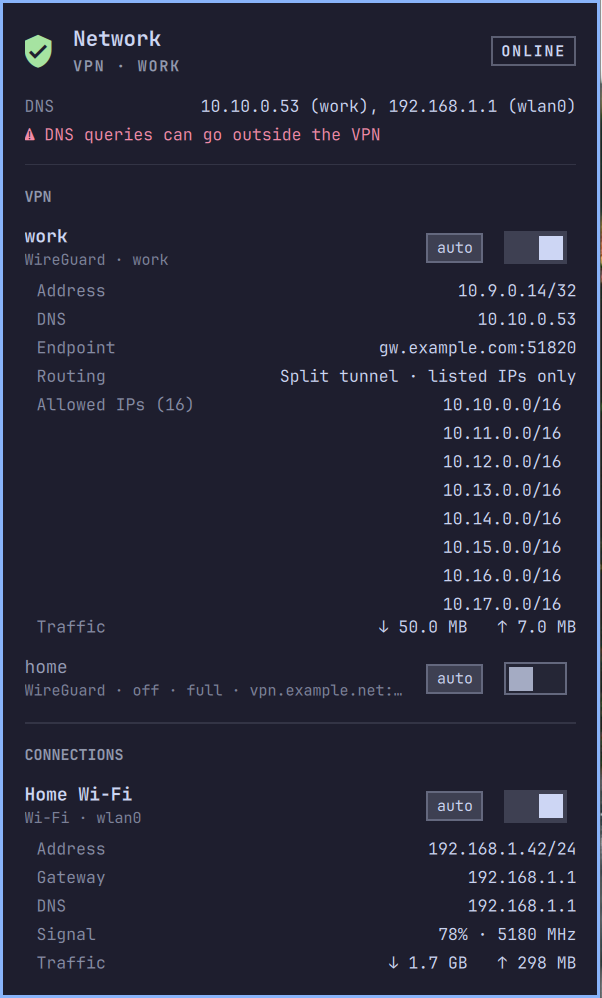
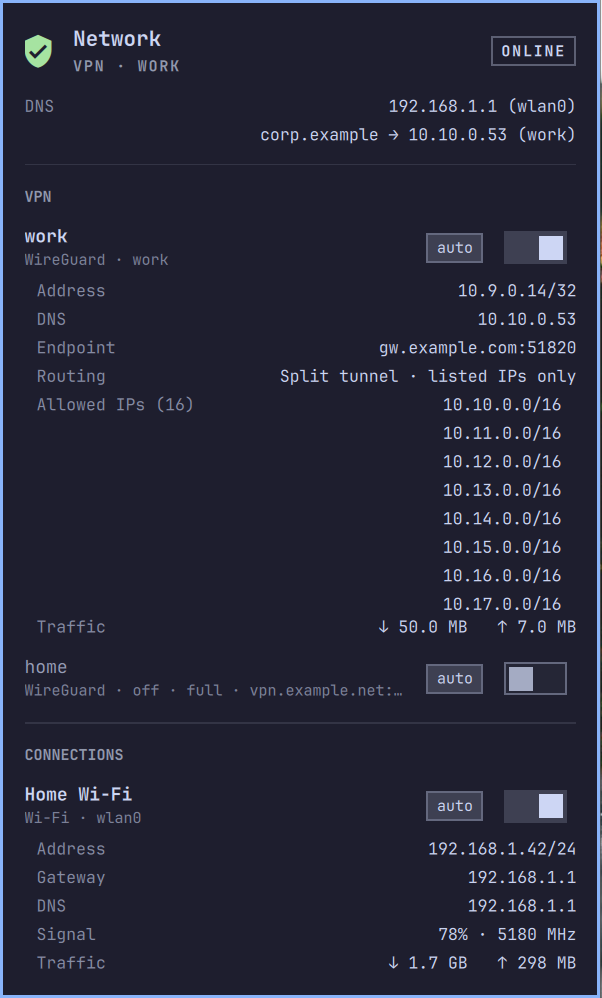
Fix split-DNS listing and split-tunnel leak false positive
Based on 0001-fix-split-dns-and-leak-check.patch, with changes:

- Move the resolvectl parser into resolved.awk. Keep routing-only
  (~domain) entries so routing-only split DNS shows up, but drop ~.,
  reverse-lookup zones (*.arpa; Tailscale adds ~65) and duplicates.
- Only warn about DNS outside the VPN for full-tunnel VPNs; general DNS
  outside a split tunnel is expected.
- Add tests (test/resolved.test.sh, test/model.test.js) with generic
  fixture names.
- README: retake the split-tunnel screenshot (no warning now), add a
  full-tunnel DNS-leak screenshot, document the tests.

diff --git a/test/model.test.js b/test/model.test.js
@@ -1,0 +1,53 @@
+// Run: node --test test/model.test.js
+// Model.js is a QML ".pragma library" file; strip the pragma and load it as a
+// plain script so its functions can be called from node.
+const { test } = require("node:test")
+const assert = require("node:assert/strict")
+const fs = require("node:fs")
+const path = require("node:path")
+const vm = require("node:vm")
+
+const src = fs.readFileSync(path.join(__dirname, "..", "Model.js"), "utf8")
+  .replace(/^\.pragma library\s*$/m, "")
+const Model = {}
+vm.runInNewContext(src, Model)
+
+const wifi = { name: "Home", uuid: "w", type: "802-11-wireless", device: "wlan0", active: true }
+const lanDns = { link: "wlan0", server: "192.168.1.1", defaultRoute: false, domains: ["home.example"] }
+
+function vpn(fullTunnel) {
+  return { name: "wg0", uuid: "v", type: "wireguard", device: "wg0", active: true, fullTunnel }
+}
+
+test("full tunnel holding ~. with LAN split DNS: no leak, split DNS listed", () => {
+  const state = { profiles: [wifi, vpn(true)], dns: [
+    lanDns,
+    { link: "wg0", server: "10.64.0.1", defaultRoute: true, domains: [] },
+  ] }
+  assert.equal(Model.dnsLeaks(state), false)
+  assert.deepEqual(Model.splitDns(state).map(l => l.link), ["wlan0"])
+})
+
+test("full tunnel while Wi-Fi still answers catch-all queries: leak", () => {
+  const state = { profiles: [wifi, vpn(true)], dns: [
+    { link: "wlan0", server: "192.168.1.1", defaultRoute: true, domains: [] },
+    { link: "wg0", server: "10.64.0.1", defaultRoute: true, domains: [] },
+  ] }
+  assert.equal(Model.dnsLeaks(state), true)
+})
+
+test("split tunnel with general DNS on Wi-Fi: not a leak", () => {
+  const state = { profiles: [wifi, vpn(false)], dns: [
+    { link: "wlan0", server: "192.168.1.1", defaultRoute: true, domains: [] },
+    { link: "wg0", server: "10.0.0.1", defaultRoute: false, domains: ["home.arpa"] },
+  ] }
+  assert.equal(Model.dnsLeaks(state), false)
+  assert.doesNotMatch(Model.summary(state), /DNS outside VPN/)
+})
+
+test("default-route link with no server can't leak", () => {
+  const state = { profiles: [wifi, vpn(true)], dns: [
+    { link: "wlan0", server: "", defaultRoute: true, domains: [] },
+  ] }
+  assert.equal(Model.dnsLeaks(state), false)
+})

diff --git a/Model.js b/Model.js
@@ -80,11 +80,13 @@ function connectivityLabel(state) {
   return state ? (connectivityLabels[state.connectivity] || "") : ""
 }
 
-// DNS "leak": a VPN is up but some non-VPN link still answers catch-all
-// queries (systemd-resolved "Default Route: yes"). Links flagged default
-// route but with no DNS server (e.g. an idle tailscale0) can't answer.
+// DNS "leak": a full-tunnel VPN is up but some non-VPN link still answers
+// catch-all queries (systemd-resolved "Default Route: yes"). Split tunnels
+// don't count: general DNS outside the tunnel is expected there. Links
+// flagged default route but with no DNS server (e.g. an idle tailscale0)
+// can't answer.
 function dnsLeaks(state) {
-  var vpns = activeVpns(state)
+  var vpns = activeVpns(state).filter(function(p) { return p.fullTunnel })
   if (vpns.length === 0 || !state.dns) return false
   var vpnDevices = vpns.map(function(p) { return p.device })
   return state.dns.some(function(l) {

diff --git a/README.md b/README.md
@@ -8,9 +8,11 @@ NetworkManager is up:
   Tailscale) is up
 - **white shield with slash**: no VPN
 
-| VPN up | Tailscale only | Split tunnel, DNS warning |
-|:---:|:---:|:---:|
-| ![Full-tunnel WireGuard with Tailscale alongside](screenshots/vpn-up.png) | ![No VPN, only Tailscale: yellow](screenshots/tailscale-only.png) | ![Split-tunnel VPN with a scrolling route list and a DNS warning](screenshots/split-tunnel.png) |
+| VPN up | Tailscale only |
+|:---:|:---:|
+| ![Full-tunnel WireGuard with Tailscale alongside](screenshots/vpn-up.png) | ![No VPN, only Tailscale: yellow](screenshots/tailscale-only.png) |
+| **Split tunnel, long route list** | **DNS outside a full tunnel** |
+| ![Split-tunnel VPN with a scrolling route list and split DNS](screenshots/split-tunnel.png) | ![Full-tunnel VPN while Wi-Fi still answers DNS: warning](screenshots/dns-leak.png) |
 
 <sub>Screenshots use made-up data.</sub>
 
@@ -18,7 +20,7 @@ Hover for a one-line summary. Left-click opens a popup with:
 
 - internet status (Online / No internet / Sign-in needed / Offline) and the DNS
   server(s) answering catch-all queries, with a warning if DNS can bypass an
-  active VPN; split-DNS links (e.g. `tail1234.ts.net → 100.100.100.100`) are
+  active full-tunnel VPN; split-DNS links (e.g. `tail1234.ts.net → 100.100.100.100`) are
   listed underneath
 - every VPN profile: up/down switch, autoconnect switch, address, DNS,
   endpoint, full/split tunnel, allowed IPs / routes, uptime, traffic. Long
@@ -51,6 +53,13 @@ Hot-reload does not pick up edits made through the symlink; after editing
 files here run `omarchy restart shell`.
 
 `./nm-status | jq .` prints the raw data the widget renders.
+
+## Tests
+
+```bash
+bash test/resolved.test.sh     # resolvectl parser (resolved.awk)
+node --test test/model.test.js # Model.js helpers
+```
 
 ## License
 
